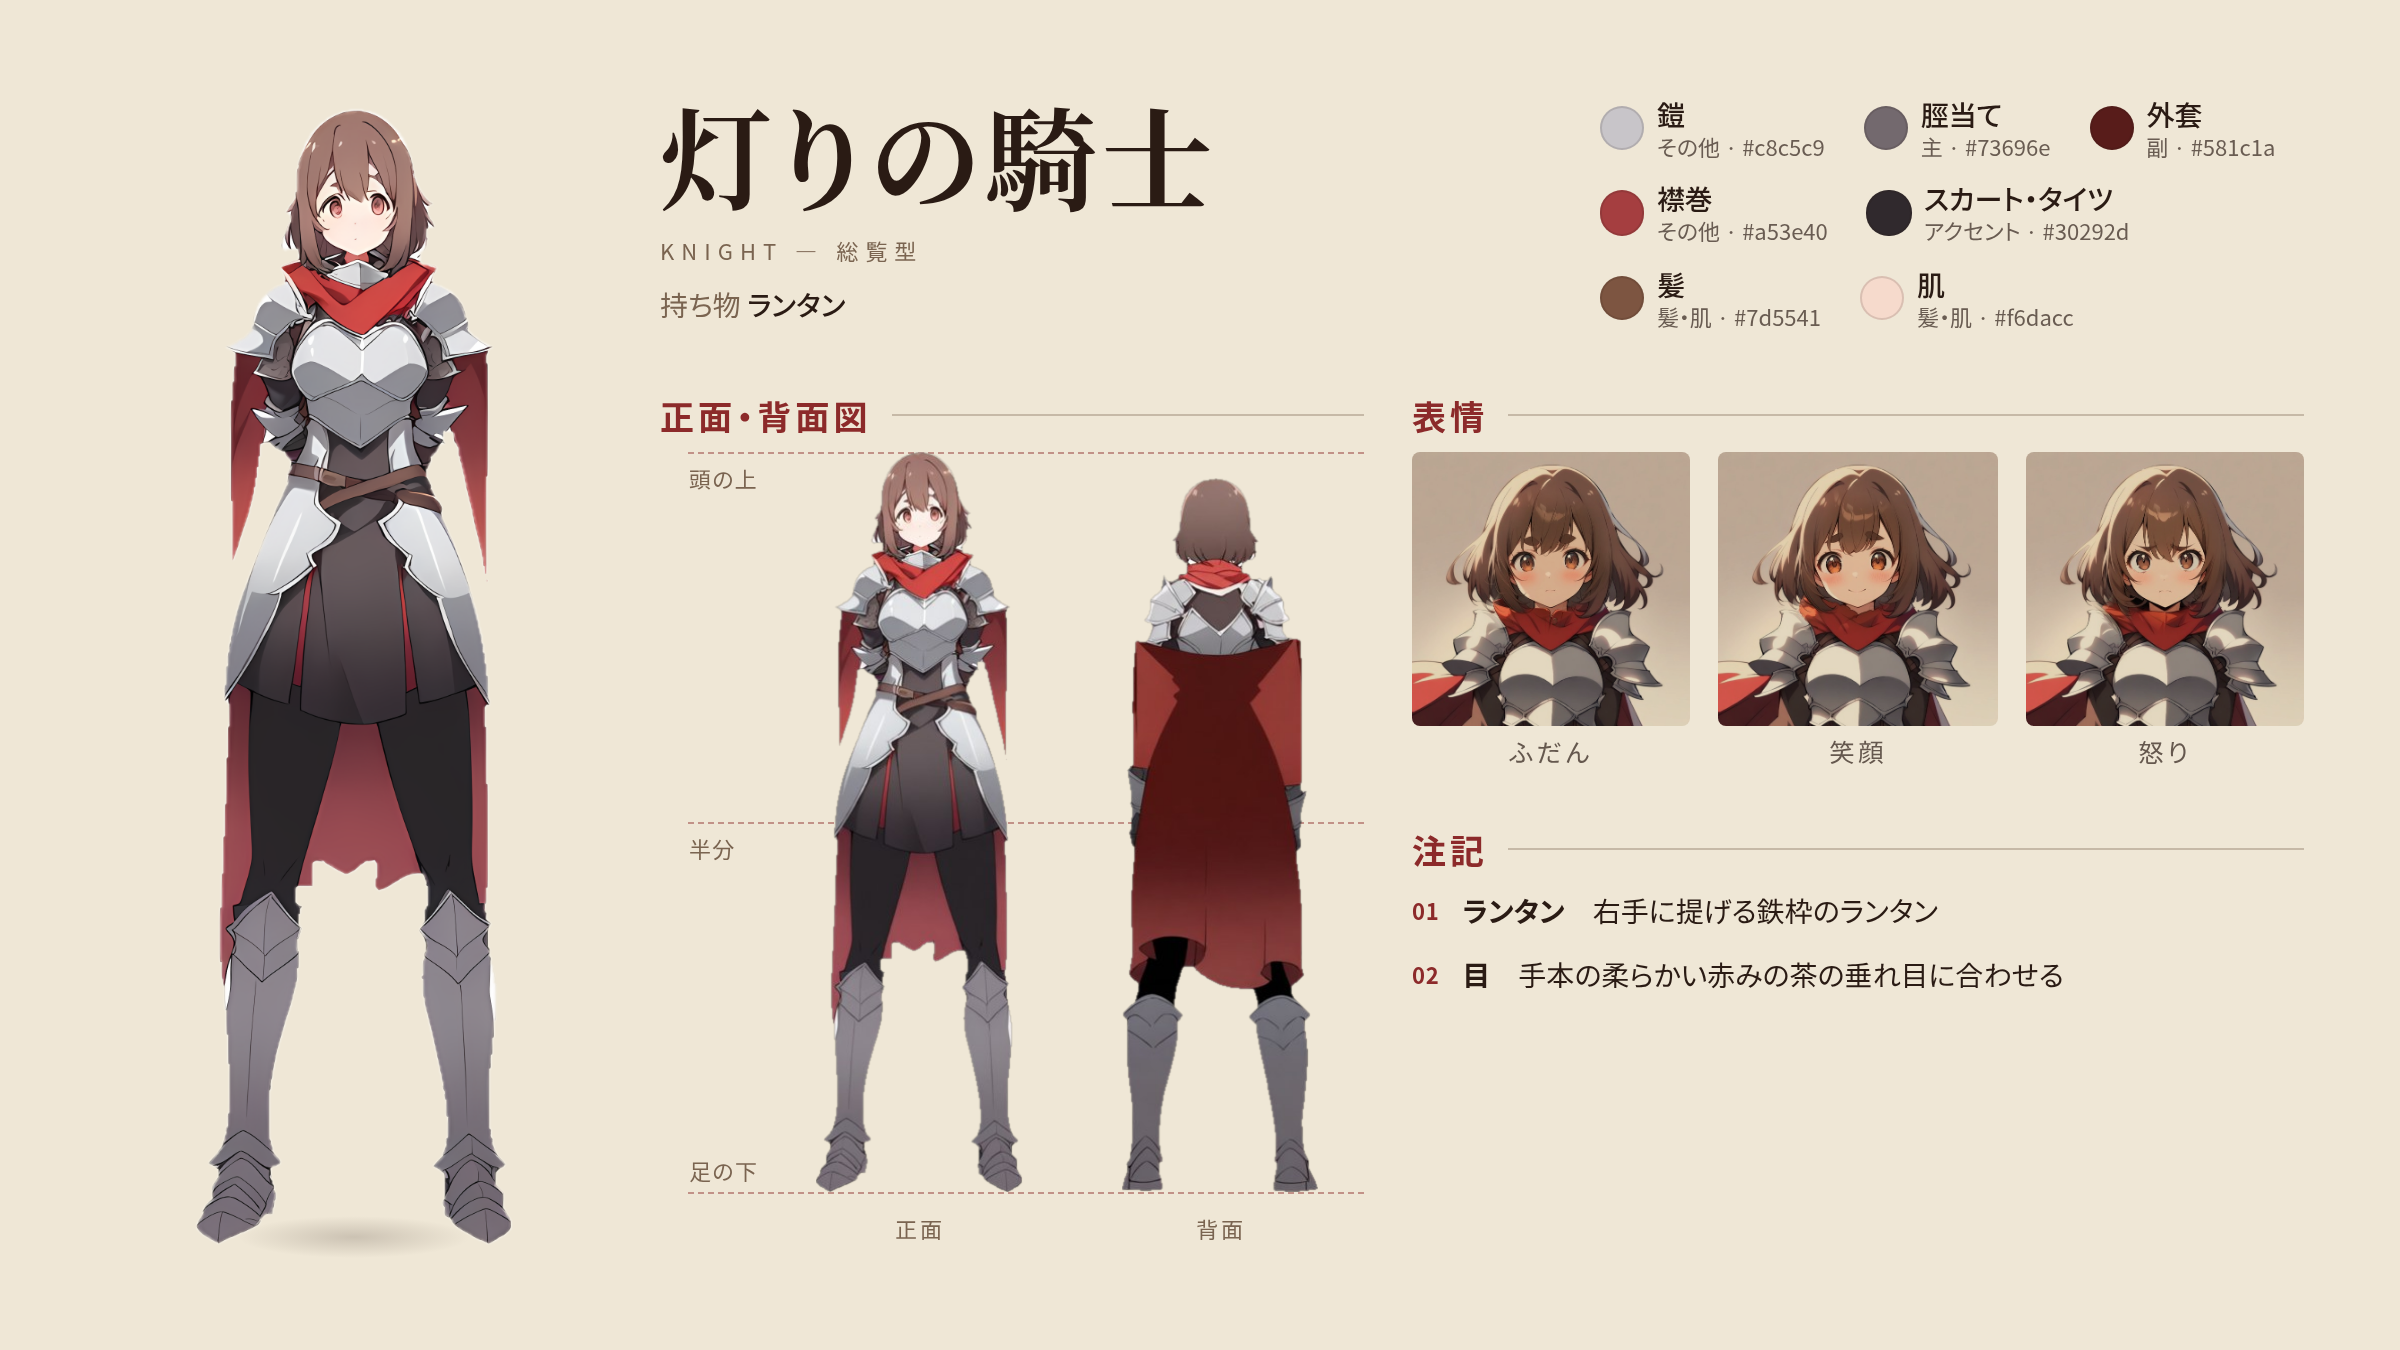
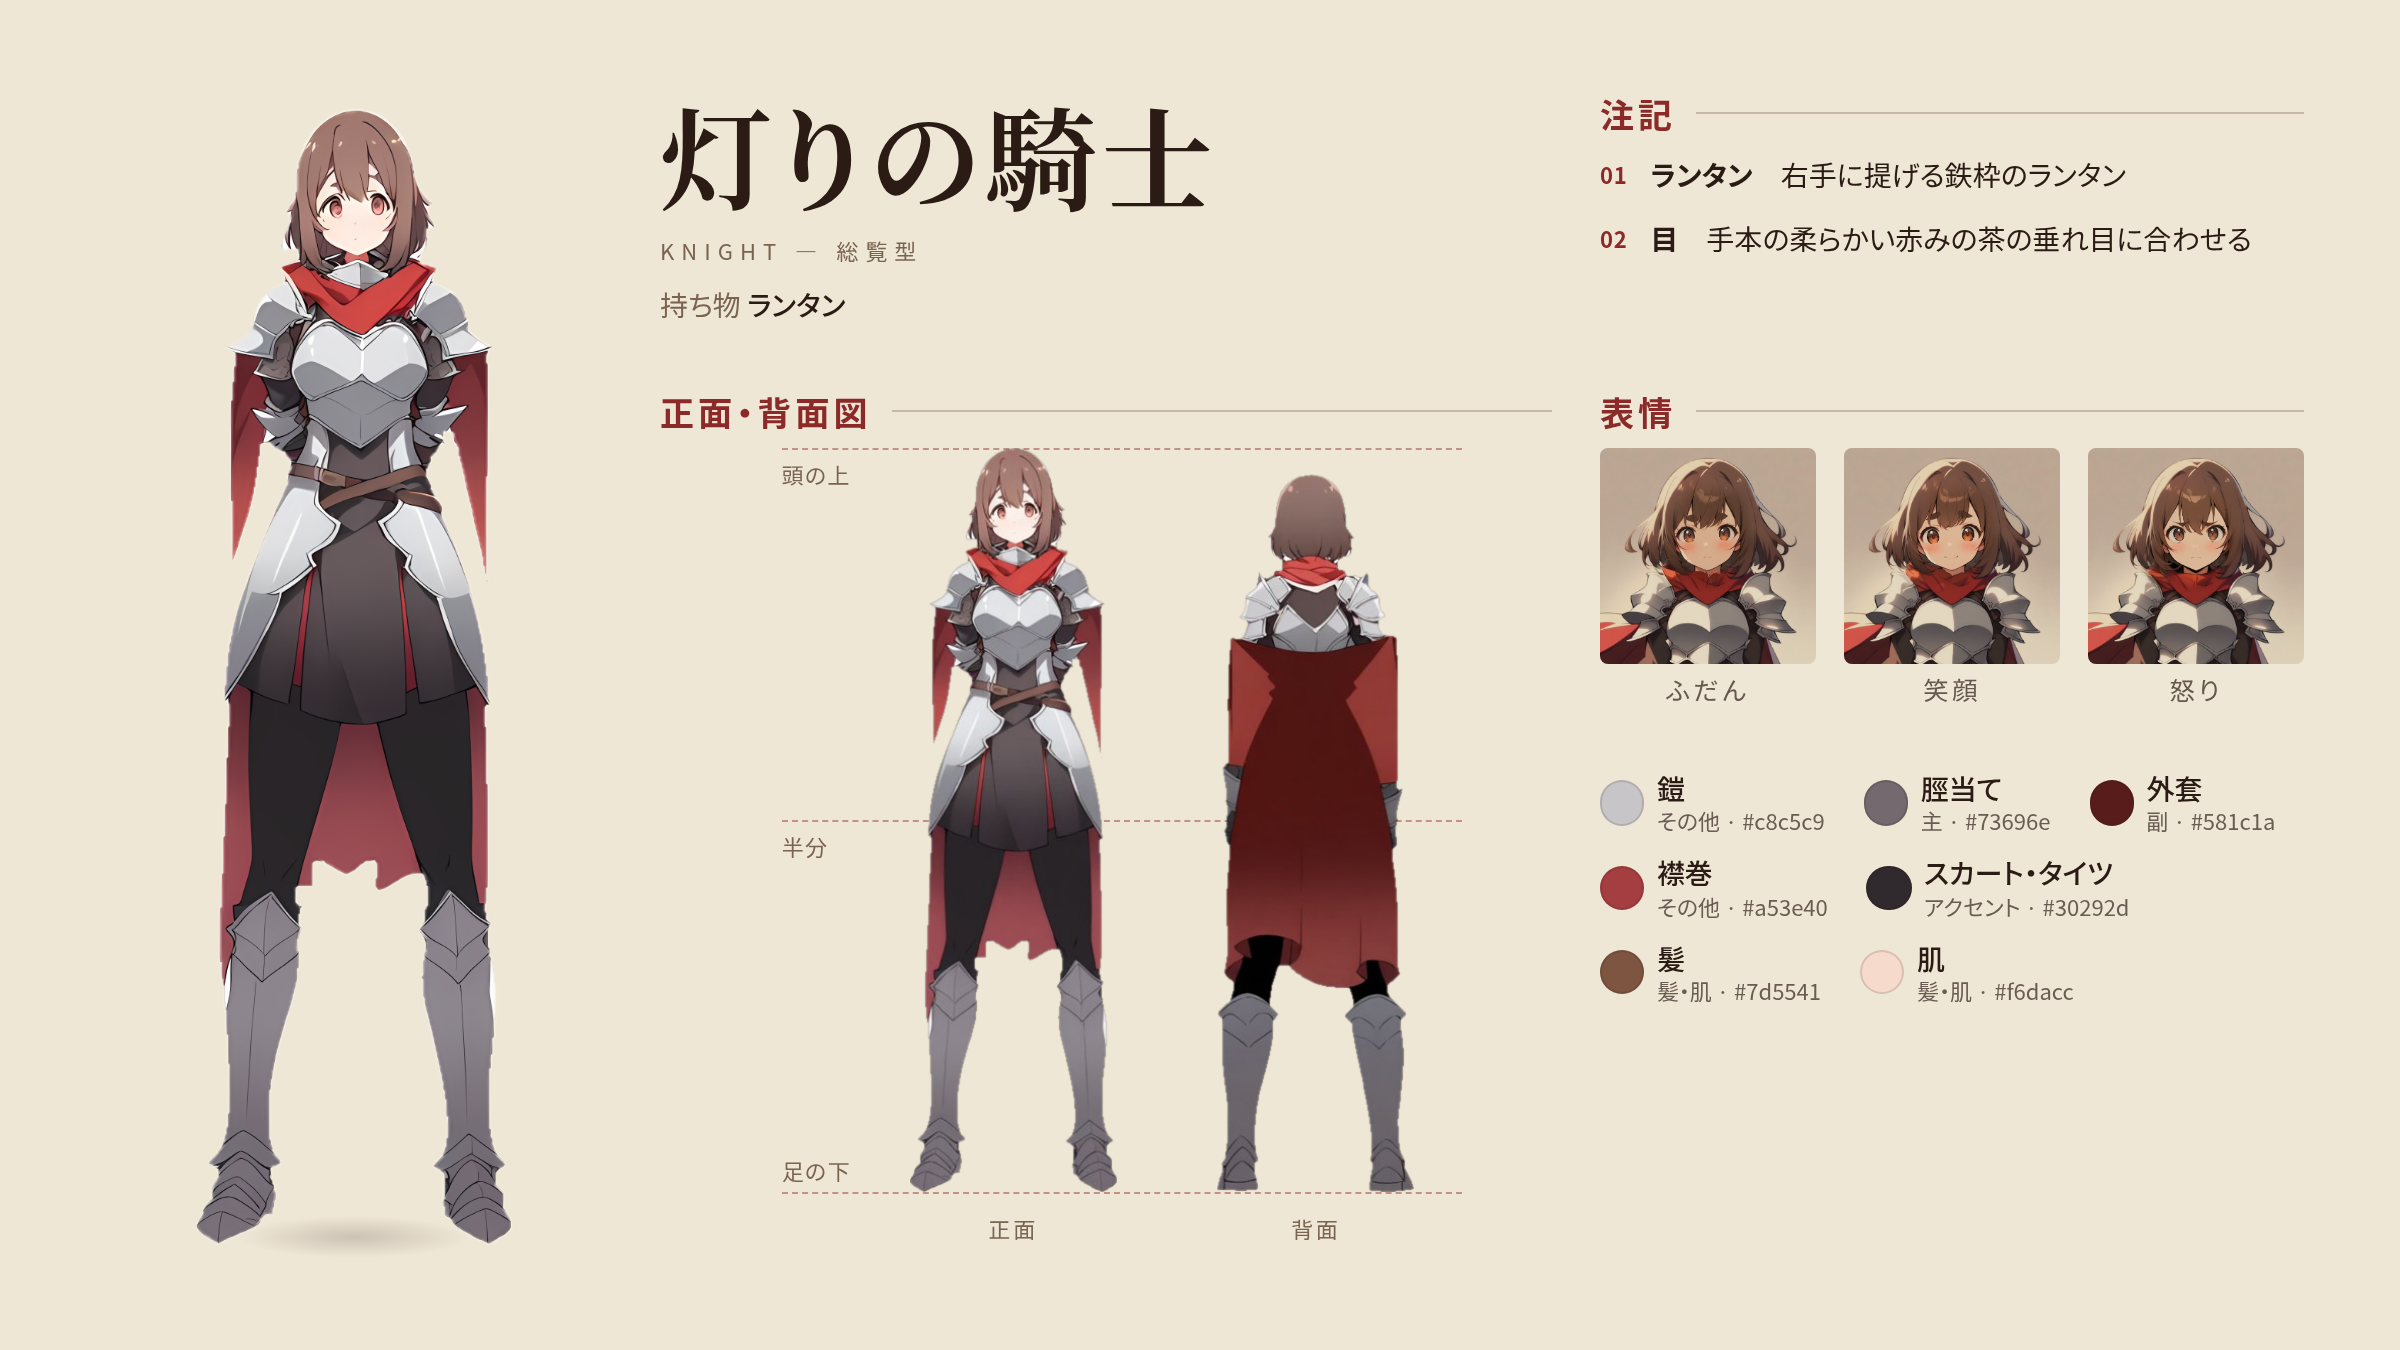
設定画集の版を、姿の設計を最も大きく見せる順に組み直す
全身像と四面図を大きく、表情は小さな正方形の札で添える。紹介型からは表情を外す。
総覧型の注記は名前の右に移し、欄に収まる数だけ載せる。

Claude-Session: https://claude.ai/code/session_01SckJ2FC4PhB88prMhjDTEV

Changed region(s): [[0.2812, 0.28, 0.9688, 0.9333], [0.6562, 0.0622, 0.9375, 0.2489]]

diff --git a/tools/gen/sheetlayout.py b/tools/gen/sheetlayout.py
@@ -204,6 +204,8 @@ body{background:var(--page);color:var(--ink);font-family:var(--font);font-weight
 .cap{position:absolute;font-size:var(--t-note);color:var(--sub);letter-spacing:.12em;transform:translateX(-50%);white-space:nowrap}
 .faces{flex:1;display:grid;gap:var(--fg);min-height:0}
 .face{display:flex;flex-direction:column;min-height:0}
+.faces.sq{flex:none}
+.sq .face .im{flex:none;aspect-ratio:1/1}
 .face .im{flex:1;min-height:0;background:var(--tile);border-radius:var(--radius);overflow:hidden;position:relative}
 .face img{position:absolute;inset:0;width:100%;height:100%;object-fit:cover;object-position:50% 25%;mix-blend-mode:multiply}
 .face p{font-size:calc(var(--t-note) * 1.15);color:color-mix(in srgb, var(--ink) 70%, var(--page)) !important;letter-spacing:.14em;color:var(--sub);text-align:center;margin-top:.55em;line-height:1}
@@ -408,7 +410,8 @@ def _panel_html(pn, ctx):
         cols = min((cols, cols + 1, cols - 1), key=lambda k: (-len(faces) % k if k > 0 else 99, abs(k - pn.get("cols", 3))))
         tiles = "".join(f'<div class="face"><div class="im"><img src="{_uri(f, "JPEG")}"></div><p>{e(n)}</p></div>' for n, f in faces)
         rows = -(-len(faces) // cols)
-        return lab(pn.get("title", "")) + f'<div class="faces" style="grid-template-columns:repeat({cols},1fr);grid-template-rows:repeat({rows},1fr)">{tiles}</div>'
+        sq = " sq" if pn.get("square") else ""   # 小さく添える表情は正方形の札にする。行の高さに合わせて潰すと、細い帯になって顔が読めなかった
+        return lab(pn.get("title", "")) + f'<div class="faces{sq}" style="grid-template-columns:repeat({cols},1fr);grid-template-rows:repeat({rows},{"auto" if sq else "1fr"})">{tiles}</div>'
     if k == "poses":
         cells = [(n, _cut_rgba(__import__("PIL.Image", fromlist=["Image"]).open(bible.ROOT / p))) for n, p in cs._pose_list(c)]
         cells = [(n, im.crop(im.getchannel("A").getbbox())) for n, im in cells]
@@ -422,7 +425,7 @@ def _panel_html(pn, ctx):
     if k == "notes":
         if not ctx["notes"]:
             return ""
-        notes = ctx["notes"]
+        notes = ctx["notes"][:pn["max"]] if pn.get("max") else ctx["notes"]   # 総覧は持ち物を先に、欄に収まる数だけ載せる
         if pn.get("brief"):   # 総覧では各注記の最初の一文だけにする。全文は作画用の版に載せる（狭い欄に全文を詰めると欄からあふれた）
             notes = [t.split("。")[0] for t in notes]
             # 長い文は最初の読点までにする（「…」で切ると文の途中で切れて見え、項目名だけにすると見出しの羅列に見えた）

diff --git a/docs/knowledge/decisions.md b/docs/knowledge/decisions.md
@@ -197,3 +197,4 @@
 - 2026-10-31: テーマは 地・墨・補助・差し色（＋表情の台）に絞り、地の模様は無し・点・罫・方眼の 1 つを濃さ 5〜9% にする。羊皮紙の質感と紋章の菱は人物の絵と競った
 - 2026-10-31: 総覧型の注記は各項目の最初の一文だけにする。全文は作画用の版に載せる。狭い欄に全文を入れると区画からあふれた（羊娘で 7 か所）
 - 2026-11-01: 「区画からはみ出さない」の決まりをやめ、欄に `bleed`（版面の端で切ってよい）と `overlap`（重ねてよい）の印を持たせる。試験は印の無い区画のはみ出しだけを数える。前の決まりは崩れ（意図しないはみ出し）と見せ方（意図した裁ち落としと重なり）を区別しておらず、主役が区画に収まった平板な版しか作れなかった。実例の紹介頁 7 例のうち 6 例が端で切るか重ねる手を使っていた
+- 2026-11-01: 設定画集の版は、全身像と四面図（姿の設計）を最も大きく、表情・色・注記は小さく添える順に組む。表情を主役より大きくすると、見る人が姿より顔の差分を先に見た（触る場所: styles/sheet-formats/*.json の areas と rows。表情が主の版は acting）
